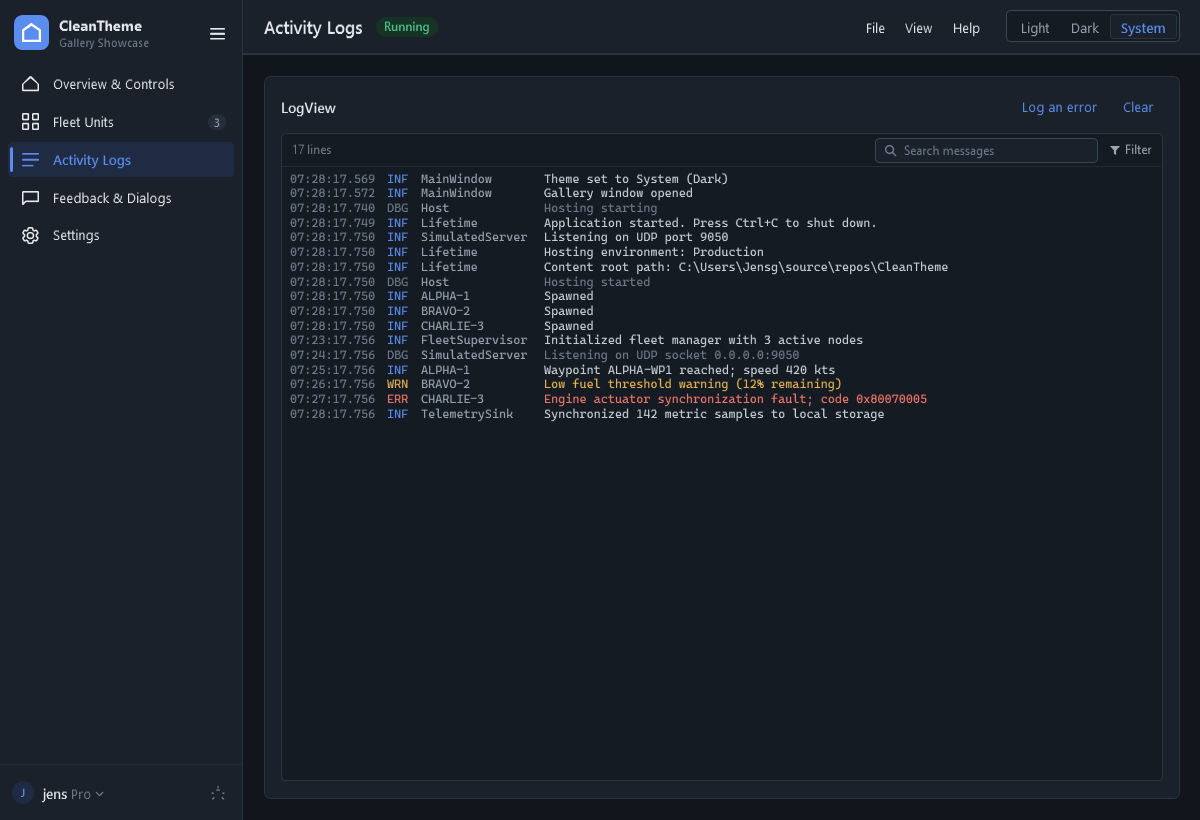
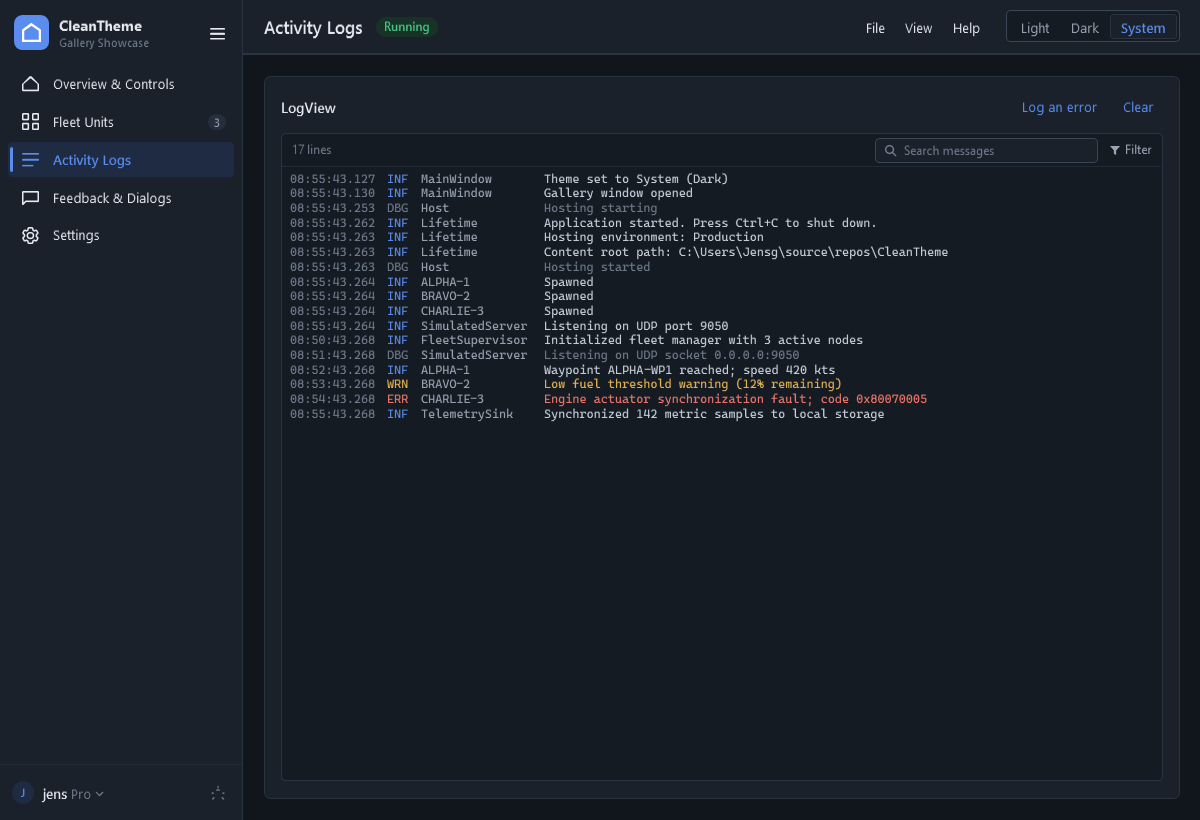
feat(HamburgerMenu): add smooth open/close drawer width animation
- Animate PART_Pane width between CompactPaneWidth and OpenPaneWidth with CubicEase EaseOut
- Add IsPaneAnimated (default true), AnimationDuration (default 200ms), and AnimationEasing properties
- Enable ClipToBounds on PART_Pane to cleanly mask drawer contents during transitions
- Add unit tests verifying animated and non-animated drawer state transitions
- Document animation properties in README.md

Changed region(s): [[0.2467, 0.2134, 0.8017, 0.5183], [0.4625, 0.3963, 0.5242, 0.4268]]

diff --git a/src/CleanTheme.Wpf/Themes/Generic.xaml b/src/CleanTheme.Wpf/Themes/Generic.xaml
@@ -745,6 +745,7 @@
                                 BorderBrush="{TemplateBinding BorderBrush}"
                                 BorderThickness="{TemplateBinding BorderThickness}"
                                 Width="{TemplateBinding CompactPaneWidth}"
+                                ClipToBounds="True"
                                 SnapsToDevicePixels="True">
                             <DockPanel LastChildFill="True">
                                 <!-- Header area (Logo + Hamburger button) -->
@@ -823,13 +824,13 @@
                     <ControlTemplate.Triggers>
                         <!-- When IsPaneOpen is true -->
                         <Trigger Property="IsPaneOpen" Value="True">
-                            <Setter TargetName="PART_Pane" Property="Width" Value="{Binding OpenPaneWidth, RelativeSource={RelativeSource TemplatedParent}}" />
+
                             <Setter TargetName="OpenHeaderRow" Property="Visibility" Value="Visible" />
                             <Setter TargetName="CompactHeaderRow" Property="Visibility" Value="Collapsed" />
                         </Trigger>
                         <!-- When IsPaneOpen is false -->
                         <Trigger Property="IsPaneOpen" Value="False">
-                            <Setter TargetName="PART_Pane" Property="Width" Value="{Binding CompactPaneWidth, RelativeSource={RelativeSource TemplatedParent}}" />
+
                             <Setter TargetName="OpenHeaderRow" Property="Visibility" Value="Collapsed" />
                             <Setter TargetName="CompactHeaderRow" Property="Visibility" Value="Visible" />
                         </Trigger>

diff --git a/src/CleanTheme.Wpf/Controls/HamburgerMenu.cs b/src/CleanTheme.Wpf/Controls/HamburgerMenu.cs
@@ -2,6 +2,7 @@ using System.Windows;
 using System.Windows.Controls;
 using System.Windows.Controls.Primitives;
 using System.Windows.Media;
+using System.Windows.Media.Animation;
 
 namespace CleanTheme.Wpf.Controls;
 
@@ -17,11 +18,23 @@ public class HamburgerMenu : ListBox
 
     public static readonly DependencyProperty CompactPaneWidthProperty = DependencyProperty.Register(
         nameof(CompactPaneWidth), typeof(double), typeof(HamburgerMenu),
-        new FrameworkPropertyMetadata(48.0));
+        new FrameworkPropertyMetadata(48.0, OnPaneWidthChanged));
 
     public static readonly DependencyProperty OpenPaneWidthProperty = DependencyProperty.Register(
         nameof(OpenPaneWidth), typeof(double), typeof(HamburgerMenu),
-        new FrameworkPropertyMetadata(240.0));
+        new FrameworkPropertyMetadata(240.0, OnPaneWidthChanged));
+
+    public static readonly DependencyProperty IsPaneAnimatedProperty = DependencyProperty.Register(
+        nameof(IsPaneAnimated), typeof(bool), typeof(HamburgerMenu),
+        new FrameworkPropertyMetadata(true));
+
+    public static readonly DependencyProperty AnimationDurationProperty = DependencyProperty.Register(
+        nameof(AnimationDuration), typeof(TimeSpan), typeof(HamburgerMenu),
+        new FrameworkPropertyMetadata(TimeSpan.FromMilliseconds(200)));
+
+    public static readonly DependencyProperty AnimationEasingProperty = DependencyProperty.Register(
+        nameof(AnimationEasing), typeof(IEasingFunction), typeof(HamburgerMenu),
+        new FrameworkPropertyMetadata(new CubicEase { EasingMode = EasingMode.EaseOut }));
 
     public static readonly DependencyProperty PaneBackgroundProperty = DependencyProperty.Register(
         nameof(PaneBackground), typeof(Brush), typeof(HamburgerMenu),
@@ -114,6 +127,27 @@ public class HamburgerMenu : ListBox
         set => SetValue(OpenPaneWidthProperty, value);
     }
 
+    /// <summary>Whether opening and closing transitions are animated (default true).</summary>
+    public bool IsPaneAnimated
+    {
+        get => (bool)GetValue(IsPaneAnimatedProperty);
+        set => SetValue(IsPaneAnimatedProperty, value);
+    }
+
+    /// <summary>Duration of the pane open/close transition (default 200 ms).</summary>
+    public TimeSpan AnimationDuration
+    {
+        get => (TimeSpan)GetValue(AnimationDurationProperty);
+        set => SetValue(AnimationDurationProperty, value);
+    }
+
+    /// <summary>Easing function used for the open/close animation (default CubicEase EaseOut).</summary>
+    public IEasingFunction? AnimationEasing
+    {
+        get => (IEasingFunction?)GetValue(AnimationEasingProperty);
+        set => SetValue(AnimationEasingProperty, value);
+    }
+
     /// <summary>Background brush for the navigation pane (defaults to Surface).</summary>
     public Brush? PaneBackground
     {
@@ -191,9 +225,17 @@ public class HamburgerMenu : ListBox
         set => SetValue(HamburgerToolTipProperty, value);
     }
 
+    private FrameworkElement? _pane;
+
     public override void OnApplyTemplate()
     {
         base.OnApplyTemplate();
+
+        _pane = GetTemplateChild("PART_Pane") as FrameworkElement;
+        if (_pane is not null)
+        {
+            _pane.Width = IsPaneOpen ? OpenPaneWidth : CompactPaneWidth;
+        }
 
         if (GetTemplateChild("PART_HamburgerButton") is ButtonBase hamburgerButton)
         {
@@ -218,8 +260,53 @@ public class HamburgerMenu : ListBox
         if (d is HamburgerMenu menu)
         {
             bool isOpen = (bool)e.NewValue;
+            menu.UpdatePaneWidth(isOpen, animate: menu.IsLoaded && menu.IsPaneAnimated);
             menu.RaiseEvent(new RoutedEventArgs(isOpen ? PaneOpenedEvent : PaneClosedEvent, menu));
         }
+    }
+
+    private static void OnPaneWidthChanged(DependencyObject d, DependencyPropertyChangedEventArgs e)
+    {
+        if (d is HamburgerMenu menu && menu._pane is not null)
+        {
+            menu.UpdatePaneWidth(menu.IsPaneOpen, animate: false);
+        }
+    }
+
+    private void UpdatePaneWidth(bool isOpen, bool animate)
+    {
+        if (_pane is null) return;
+
+        double targetWidth = isOpen ? OpenPaneWidth : CompactPaneWidth;
+
+        if (!animate || AnimationDuration <= TimeSpan.Zero)
+        {
+            _pane.BeginAnimation(WidthProperty, null);
+            _pane.Width = targetWidth;
+            return;
+        }
+
+        double startWidth = _pane.ActualWidth > 0 ? _pane.ActualWidth : _pane.Width;
+        if (double.IsNaN(startWidth) || startWidth <= 0)
+        {
+            startWidth = isOpen ? CompactPaneWidth : OpenPaneWidth;
+        }
+
+        var animation = new DoubleAnimation
+        {
+            From = startWidth,
+            To = targetWidth,
+            Duration = AnimationDuration,
+            EasingFunction = AnimationEasing
+        };
+
+        animation.Completed += (s, e) =>
+        {
+            _pane.BeginAnimation(WidthProperty, null);
+            _pane.Width = targetWidth;
+        };
+
+        _pane.BeginAnimation(WidthProperty, animation);
     }
 
     protected override DependencyObject GetContainerForItemOverride() => new HamburgerMenuItem();

diff --git a/tests/CleanTheme.Wpf.Tests/HamburgerMenuTests.cs b/tests/CleanTheme.Wpf.Tests/HamburgerMenuTests.cs
@@ -18,6 +18,33 @@ public sealed class HamburgerMenuTests
         Assert.Equal(240.0, menu.OpenPaneWidth);
         Assert.True(menu.IsHamburgerVisible);
         Assert.Equal(SelectionMode.Single, menu.SelectionMode);
+        Assert.True(menu.IsPaneAnimated);
+        Assert.Equal(TimeSpan.FromMilliseconds(200), menu.AnimationDuration);
+        Assert.NotNull(menu.AnimationEasing);
+    });
+
+    [Fact]
+    public void HamburgerMenu_pane_width_updates_with_and_without_animation() => Sta.Run(() =>
+    {
+        var menu = new HamburgerMenu { IsPaneOpen = false, IsPaneAnimated = false };
+        Sta.Layout(menu);
+
+        var pane = (Border?)menu.Template.FindName("PART_Pane", menu);
+        Assert.NotNull(pane);
+        Assert.Equal(menu.CompactPaneWidth, pane.Width);
+
+        menu.IsPaneOpen = true;
+        Assert.Equal(menu.OpenPaneWidth, pane.Width);
+
+        menu.IsPaneOpen = false;
+        Assert.Equal(menu.CompactPaneWidth, pane.Width);
+
+        // Animated open
+        menu.IsPaneAnimated = true;
+        menu.AnimationDuration = TimeSpan.FromMilliseconds(50);
+        menu.IsPaneOpen = true;
+        Sta.DoEventsFor(TimeSpan.FromMilliseconds(100));
+        Assert.Equal(menu.OpenPaneWidth, pane.Width);
     });
 
     [Fact]

diff --git a/README.md b/README.md
@@ -145,6 +145,8 @@ string? name = CleanMessageBox.Prompt(owner, "Save scenario", "Name", "New scena
 </clean:HamburgerMenu>
 ```
 
+The menu animates open and close transitions smoothly by default (200 ms cubic ease-out). Customize or disable via `IsPaneAnimated="False"`, `AnimationDuration="0:0:0.150"`, or `AnimationEasing`.
+
 **SearchableSettingsView.** A modern settings interface with category tabs, sections, two-column setting rows, and instant live search filtering with `Ctrl+K`:
 
 ```xml
